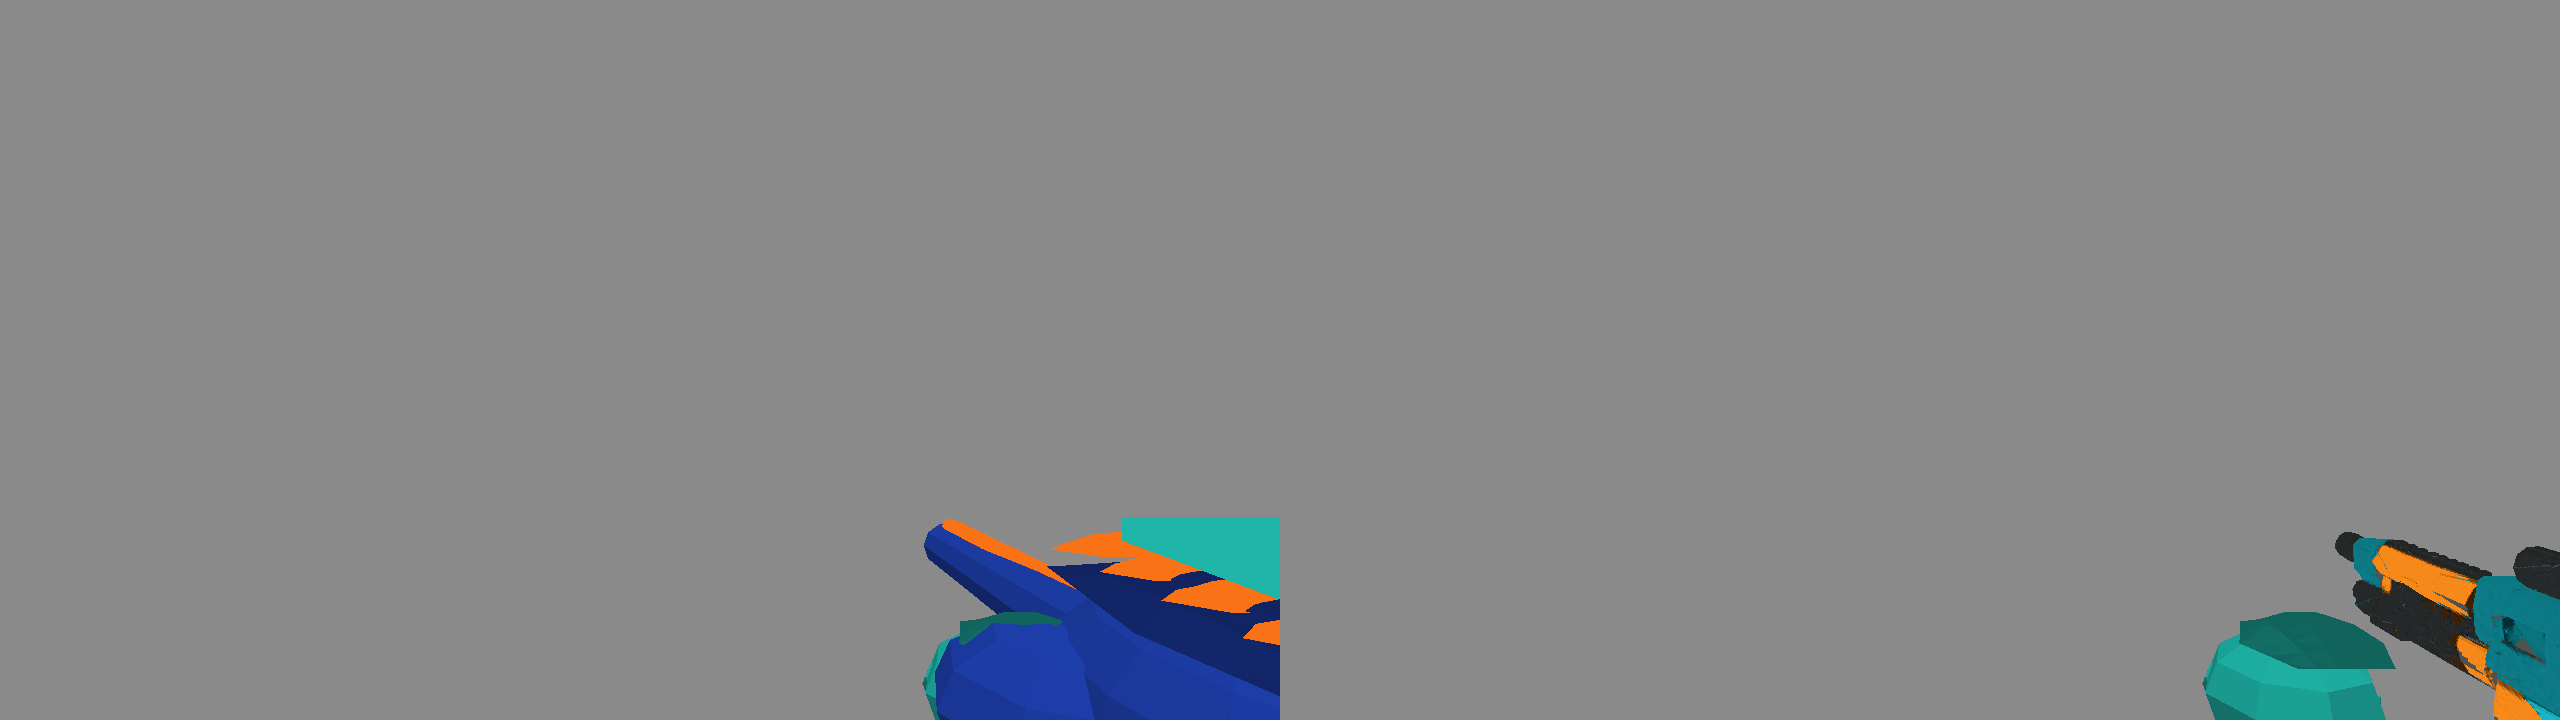
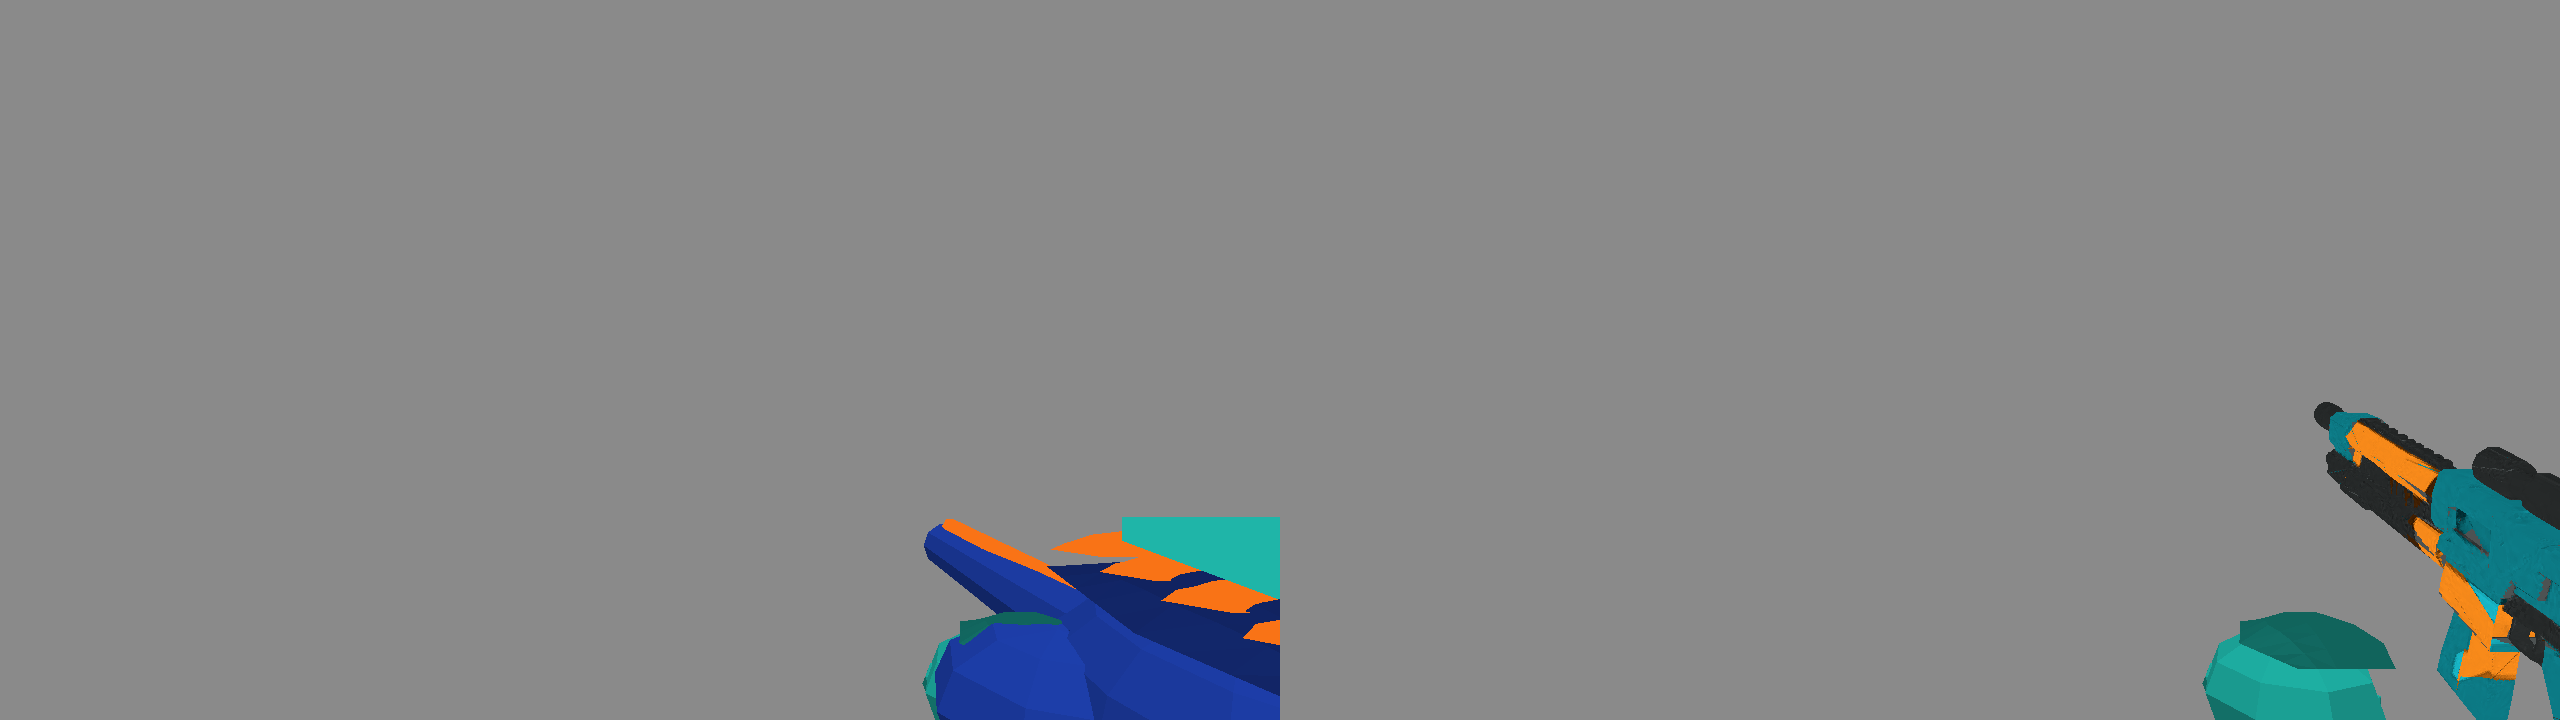
Seat the hive core on the chest gem and keep the fit-moved hit centers.
The core glow follows the gem at (-0.03506386, 2.3284526, 0.77563494). No hit radius shrinks, and the spitter sac stays 0.36. Brakk's status light uses gear_brakk_gun_glow, and the Vex barrel is pitched into the #12 frame.

Changed region(s): [[0.9062, 0.55, 1.0, 1.0]]

diff --git a/crates/meshes/src/cast.rs b/crates/meshes/src/cast.rs
@@ -216,10 +216,22 @@ fn ensure_shade_hue_free(shade: &Tex, id: &str) -> Result<(), String> {
 
 fn ensure_weighted_channels(mask: &Tex, keys: [&str; 4], id: &str) -> Result<(), String> {
     let names = ["R", "G", "B", "A"];
-    for channel in 0..4 {
-        let used = mask.rgba.chunks_exact(4).any(|px| px[channel] > 0);
-        if used && keys[channel].is_empty() {
-            return Err(format!("{id} mask {} has weight but no palette key", names[channel]));
+    let palette = Content::embedded().palette;
+    for (i, px) in mask.rgba.chunks_exact(4).enumerate() {
+        for channel in 0..4 {
+            if px[channel] == 0 {
+                continue;
+            }
+            let key = keys[channel];
+            let hex = if key.is_empty() { "" } else { palette.hex(key).unwrap_or("") };
+            if hex.trim().trim_start_matches('#').len() < 6 {
+                let x = (i as u32) % mask.w;
+                let y = (i as u32) / mask.w;
+                return Err(format!(
+                    "{id} mask texel ({x},{y}) weights an undefined palette slot {}",
+                    names[channel]
+                ));
+            }
         }
     }
     Ok(())
@@ -1656,10 +1668,14 @@ fn fill_textured(
                     let px = sample4(&mesh.base, uv);
                     [px[0], px[1], px[2]]
                 } else if job.channeled {
-                    // The shade map is the lighting. Emissive stays in the client texture.
+                    // Shade scales the albedo. An emissive slot is added on top so a
+                    // status light reads in the still, the same color the client emits.
                     let shade_srgb = sample(&mesh.shade, uv)[0];
                     let weights = sample4(&mesh.mask, uv);
-                    let albedo = tint_channels(shade_srgb, weights, job.channels, job.emissive, job.shade_mid_lin, false).0;
+                    let (mut albedo, emit) = tint_channels(shade_srgb, weights, job.channels, job.emissive, job.shade_mid_lin, false);
+                    for k in 0..3 {
+                        albedo[k] = (albedo[k] + emit[k]).min(1.0);
+                    }
                     if let Some(channel) = job.overdrive_channel {
                         brighten_channel(albedo, weights, channel, job.overdrive_toward, job.overdrive_gain)
                     } else {
@@ -1907,6 +1923,71 @@ mod tests {
         let decoded = decode_mask(&bytes, "synthetic").unwrap();
         let err = ensure_mask_weight(&decoded, "synthetic").expect_err("decoded hole fails");
         assert!(err.contains("(1,1)"), "{err}");
+    }
+
+    /// The tail cannon floats above the cast. The core glow is the chest gem.
+    /// A magenta mass in the crown band is the core sitting in the spikes.
+    #[test]
+    fn the_tyrant_core_glow_sits_on_the_chest_not_the_crown() {
+        let far = crate::raster_in_arena("hive_tyrant", 1024, 1024);
+        let (crown, chest) = exact_magenta_bands(&far, 1024, 180, 480, 500, 640);
+        assert!(chest > 400, "chest gem glow is missing at 15 m ({chest} px)");
+        assert!(crown < 40, "15 m crown still holds a magenta cloud ({crown} px)");
+        let close = crate::raster_bug("hive_tyrant", 1024, 1024);
+        let (spikes, gem) = exact_magenta_bands(&close, 1024, 320, 480, 500, 640);
+        assert!(gem > 200, "close-up chest glow is missing ({gem} px)");
+        assert!(spikes < 20, "close-up spikes hold a magenta cloud ({spikes} px)");
+    }
+
+    fn exact_magenta_bands(rgb: &[u8], width: u32, crown_y0: u32, crown_y1: u32, chest_y0: u32, chest_y1: u32) -> (u32, u32) {
+        let mut crown = 0u32;
+        let mut chest = 0u32;
+        let height = rgb.len() as u32 / (width * 3);
+        for y in 0..height {
+            for x in 0..width {
+                let i = ((y * width + x) * 3) as usize;
+                if rgb[i] == 255 && rgb[i + 1] == 43 && rgb[i + 2] == 214 {
+                    if y >= crown_y0 && y < crown_y1 {
+                        crown += 1;
+                    } else if y >= chest_y0 && y < chest_y1 {
+                        chest += 1;
+                    }
+                }
+            }
+        }
+        (crown, chest)
+    }
+
+    #[test]
+    fn a_texel_on_an_undefined_palette_slot_fails_the_load() {
+        let accent = Tex { w: 1, h: 1, rgba: vec![0, 0, 255, 0] };
+        let err = ensure_weighted_channels(
+            &accent,
+            ["gear_vex_gun_primary", "gear_vex_gun_secondary", "", ""],
+            "synthetic",
+        )
+        .expect_err("empty accent");
+        assert!(err.contains("(0,0)"), "{err}");
+        assert!(err.contains("undefined"), "{err}");
+        let known = Tex { w: 1, h: 1, rgba: vec![0, 0, 0, 255] };
+        ensure_weighted_channels(
+            &known,
+            ["gear_vex_gun_primary", "gear_vex_gun_secondary", "", "gear_brakk_gun_glow"],
+            "synthetic",
+        )
+        .expect("a defined fourth slot loads");
+        let bogus = Tex { w: 2, h: 1, rgba: vec![0, 0, 0, 0, 0, 0, 0, 40] };
+        let err = ensure_weighted_channels(
+            &bogus,
+            ["gear_vex_gun_primary", "gear_vex_gun_secondary", "", "not_a_palette_key"],
+            "synthetic",
+        )
+        .expect_err("unknown key");
+        assert!(err.contains("(1,0)"), "{err}");
+        assert!(err.contains("undefined"), "{err}");
+        let still = crate::preview::palette_of()("gear_brakk_gun_glow");
+        let authored = Content::embedded().palette.key("gear_brakk_gun_glow");
+        assert_eq!(still, authored, "the still must use the authored green, not a white fallback");
     }
 
     #[test]
@@ -3079,6 +3160,7 @@ mod tests {
             assert_eq!(bad, 0, "{id} has {bad} body pixels away from the glow in a weak-point color");
         }
     }
+
 }
 
 #[cfg(test)]

diff --git a/crates/meshes/src/preview.rs b/crates/meshes/src/preview.rs
@@ -395,20 +395,25 @@ fn paint_view_gun(color: &mut [u8], depth: &mut [f32], frame: &ViewmodelFrame, y
     let content = gemini_sim::content::Content::embedded();
     let hero = content.hero.id.as_str();
     let gun = crate::cast(&format!("{hero}_gun"));
-    let view = content
+    let model = content
         .models
         .iter()
         .find(|model| model.id == gun.id)
-        .unwrap_or_else(|| panic!("{} has no cast record", gun.id))
-        .view;
+        .unwrap_or_else(|| panic!("{} has no cast record", gun.id));
     let shift = frame.offset;
+    let grip = [
+        model.view[0] + shift[0],
+        model.view[1] + shift[1],
+        model.view[2] + shift[2],
+    ];
+    // Mesh origin is the grip. Pitch there, then move to the viewmodel grip.
     let place = crate::Placement {
         pre_yaw: 0.0,
-        pre_shift: [view[0] + shift[0], view[1] + shift[1], view[2] + shift[2]],
+        pre_shift: [0.0, 0.0, 0.0],
         yaw_deg,
-        lean: pitch_deg.to_radians(),
+        lean: (pitch_deg + model.view_pitch_deg).to_radians(),
         pivot: [0.0, 0.0, 0.0],
-        shift: [0.0, 0.0, 0.0],
+        shift: grip,
     };
     let eye = [0.0, 0.0, 0.0];
     let forward = [0.0, 0.0, -1.0];
@@ -1081,7 +1086,7 @@ pub fn palette_of() -> impl Fn(&str) -> [f32; 4] {
                 continue;
             }
             let Some((k, v)) = line.split_once('=') else { continue };
-            let hex = v.trim().trim_matches('"').to_string();
+            let hex = palette_value_hex(v);
             let key = if section == "keys" {
                 k.trim().to_string()
             } else {
@@ -1113,14 +1118,30 @@ fn byte(c: f32) -> u8 {
     (c.clamp(0.0, 1.0) * 255.0).round() as u8
 }
 
+/// A `{ hex = "#RRGGBB", ... }` row stores the quoted hex. A bare quoted hex is itself.
+fn palette_value_hex(value: &str) -> String {
+    let value = value.trim();
+    if value.starts_with('{') {
+        let Some(start) = value.find('"') else {
+            return String::new();
+        };
+        let rest = &value[start + 1..];
+        let Some(end) = rest.find('"') else {
+            return String::new();
+        };
+        return rest[..end].to_string();
+    }
+    value.trim_matches('"').to_string()
+}
+
 fn hex_rgb(hex: &str) -> [f32; 4] {
     let hex = hex.trim().trim_start_matches('#');
-    let byte = |i: usize| u8::from_str_radix(&hex[i..i + 2], 16).unwrap_or(180) as f32 / 255.0;
-    if hex.len() >= 6 {
-        [byte(0), byte(2), byte(4), 1.0]
-    } else {
-        [0.7, 0.5, 0.2, 1.0]
+    let digits = hex.len() >= 6 && hex.as_bytes()[..6].iter().all(|b| b.is_ascii_hexdigit());
+    if !digits {
+        panic!("palette hex \"{hex}\" does not resolve");
     }
+    let byte = |i: usize| u8::from_str_radix(&hex[i..i + 2], 16).unwrap() as f32 / 255.0;
+    [byte(0), byte(2), byte(4), 1.0]
 }
 
 fn project(

diff --git a/crates/sim/tests/rules.rs b/crates/sim/tests/rules.rs
@@ -985,7 +985,7 @@ fn cast_hit_centers_stay_on_the_moved_anchors() {
     let hive = content.bug(EnemyKind::HiveTyrant);
     let core = hive.hitbox.core.as_ref().expect("hive core");
     assert!(
-        near(core.offset, [0.04576531, 2.95827794, 0.92303598]),
+        near(core.offset, [-0.03506386, 2.3284526, 0.77563494]),
         "hive core {:?}",
         core.offset
     );
@@ -998,6 +998,30 @@ fn cast_hit_centers_stay_on_the_moved_anchors() {
         cannon.offset
     );
     assert!((cannon.radius - 0.83).abs() < 1.0e-4, "cannon radius {}", cannon.radius);
+}
+
+/// Floors are written here. A smaller content value fails. A larger one does not.
+#[test]
+fn hit_radii_do_not_drop_below_their_pins() {
+    use gemini_sim::content::EnemyKind;
+    let content = Content::embedded();
+    let at_least = |got: f32, pin: f32, what: &str| {
+        assert!(got + 1.0e-4 >= pin, "{what} is {got}, below the pinned {pin}");
+    };
+    let abdomen = content.bug(EnemyKind::Swarmer).hitbox.weak().expect("abdomen");
+    at_least(abdomen.radius, 0.15, "swarmer abdomen");
+    let sac = content.bug(EnemyKind::Spitter).hitbox.weak().expect("sac");
+    at_least(sac.radius, 0.36, "spitter sac");
+    let cracks = content.bug(EnemyKind::Brute).hitbox.weak().expect("cracks");
+    at_least(cracks.half_extents[0], 0.75, "brute cracks x");
+    at_least(cracks.half_extents[1], 0.50, "brute cracks y");
+    at_least(cracks.half_extents[2], 0.62, "brute cracks z");
+    let brood = content.bug(EnemyKind::BroodMother);
+    at_least(brood.hitbox.weak().expect("gland").radius, 0.5, "brood gland");
+    at_least(brood.hitbox.pod_radius().expect("pod"), 0.65, "brood pod");
+    let hive = content.bug(EnemyKind::HiveTyrant);
+    at_least(hive.hitbox.core.as_ref().expect("core").radius, 0.70, "hive core");
+    at_least(hive.hitbox.cannon.as_ref().expect("cannon").radius, 0.83, "hive cannon");
 }
 
 #[test]

diff --git a/crates/sim/src/content.rs b/crates/sim/src/content.rs
@@ -1364,6 +1364,9 @@ pub struct CastModel {
     pub at: [f32; 3],
     pub grip: [f32; 3],
     pub view: [f32; 3],
+    /// Pitch of a weapon around its grip, in degrees, before `viewmodel_offset`.
+    /// Positive raises the muzzle. Bodies and bugs stay at 0.
+    pub view_pitch_deg: f32,
     /// Stock panel UV on TEXCOORD_0. `v = 0` is the top row. Weapons only.
     pub stock_uv: Option<[f32; 2]>,
     /// `primary` or `secondary`. Empty when this model has no stock point.
@@ -1870,7 +1873,7 @@ fn load_model_rows(
             keys.push("glow");
         }
         if fit_peek == "weapon" {
-            keys.extend(["hero", "stock_uv", "stock_channel", "rail_uv", "rail_channel"]);
+            keys.extend(["hero", "stock_uv", "stock_channel", "rail_uv", "rail_channel", "view_pitch_deg"]);
         }
         expect_keys(map, &keys, &format!("{what} model"))?;
         let id = vis_str(map, "id", &format!("{what} model"))?.to_string();
@@ -1978,6 +1981,15 @@ fn load_model_rows(
         } else {
             (None, String::new(), None, String::new())
         };
+        let view_pitch_deg = if fit == "weapon" {
+            let pitch = vis_f32(map, "view_pitch_deg", &format!("{what} {labeled}"))?;
+            if !pitch.is_finite() || !(-80.0..=80.0).contains(&pitch) {
+                return Err(format!("{what} {labeled} view_pitch_deg must be finite and in -80..=80"));
+            }
+            pitch
+        } else {
+            0.0
+        };
         models.push(CastModel {
             id,
             hero,
@@ -2004,6 +2016,7 @@ fn load_model_rows(
             at: vis_vec3(map, "at", &format!("{what} model"))?,
             grip: vis_vec3(map, "grip", &format!("{what} model"))?,
             view: vis_vec3(map, "view", &format!("{what} model"))?,
+            view_pitch_deg,
             stock_uv,
             stock_channel,
             rail_uv,

diff --git a/crates/meshes/src/lib.rs b/crates/meshes/src/lib.rs
@@ -105,13 +105,14 @@ pub fn muzzle_local() -> [f32; 3] {
     let gun = cast("vex_gun");
     let tip = muzzle_tip(gun);
     let content = gemini_sim::content::Content::embedded();
-    let view = content
+    let spec = content
         .models
         .iter()
         .find(|model| model.id == "vex_gun")
-        .unwrap_or_else(|| panic!("vex_gun has no cast record"))
-        .view;
-    [view[0] + tip[0], view[1] + tip[1], view[2] + tip[2]]
+        .unwrap_or_else(|| panic!("vex_gun has no cast record"));
+    let (s, c) = spec.view_pitch_deg.to_radians().sin_cos();
+    let pitched = [tip[0], c * tip[1] - s * tip[2], s * tip[1] + c * tip[2]];
+    [spec.view[0] + pitched[0], spec.view[1] + pitched[1], spec.view[2] + pitched[2]]
 }
 
 /// Round muzzle glow, centered on the origin. Scale it by the radius from characters.toml.
@@ -434,7 +435,7 @@ mod tests {
         assert!(near(gland.rest_pos, [-0.01607708, 1.45470980, 1.18440960], 0.02));
         assert!(gland.emissive);
         let core = bug("hive_tyrant").parts.iter().find(|p| p.name == "core").expect("core");
-        assert!(near(core.rest_pos, [0.04576531, 2.95827794, 0.92303598], 0.02));
+        assert!(near(core.rest_pos, [-0.03506386, 2.3284526, 0.77563494], 0.02));
         assert!(core.emissive);
         let armor = bug("hive_tyrant").parts.iter().find(|p| p.name == "armor").expect("armor");
         assert!(matches!(armor.gate, Gate::PhaseMax(1)));

diff --git a/crates/client/src/world.rs b/crates/client/src/world.rs
@@ -302,7 +302,8 @@ pub fn scene(
         .find(|model| model.id == gun_id)
         .unwrap_or_else(|| panic!("{gun_id} has no cast record"));
     let gun_view = gun_model.view;
-    let grip = Transform::from_xyz(offset[0] + gun_view[0], offset[1] + gun_view[1], offset[2] + gun_view[2]);
+    let grip = Transform::from_xyz(offset[0] + gun_view[0], offset[1] + gun_view[1], offset[2] + gun_view[2])
+        .with_rotation(Quat::from_rotation_x(gun_model.view_pitch_deg.to_radians()));
     let mut gun_hot_src = materials
         .get(&gun_idle)
         .cloned()
